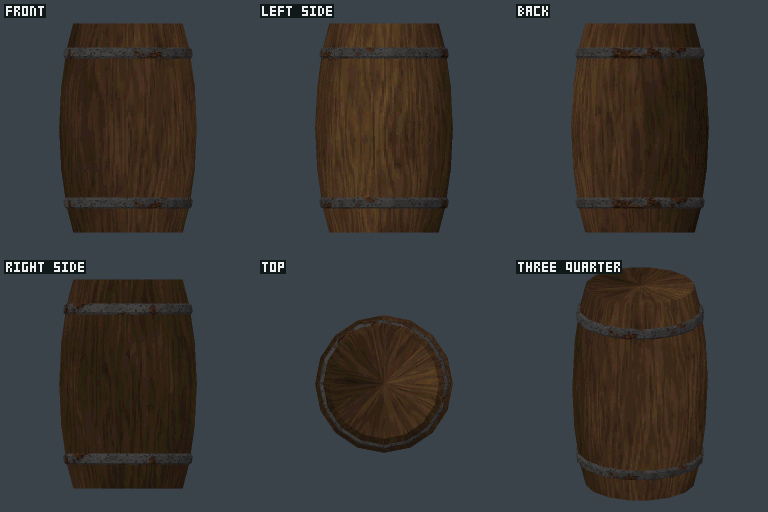
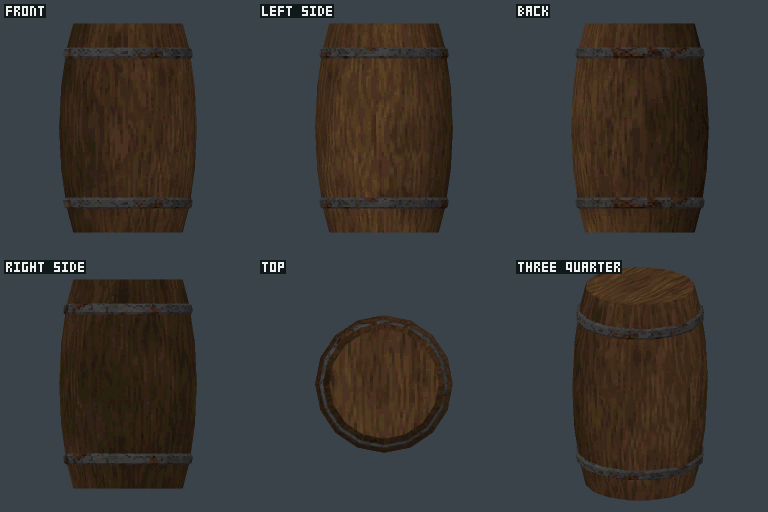
Turn a repeated part itself; name parts with crowded edges; paint closed ends as discs; the tavern table case

Changed region(s): [[0.4062, 0.6562, 0.5312, 0.8438], [0.75, 0.5, 0.8438, 0.5938], [0.5, 0.4375, 0.5312, 0.4688]]

diff --git a/examples/prompts/03-model-tavern-table/prompt.md b/examples/prompts/03-model-tavern-table/prompt.md
@@ -1,0 +1,52 @@
+# 03 A tavern table, set (model, repeated parts and things on things)
+
+## The prompt (118 words)
+
+> A round tavern table for my inn, as one prop. The top is a thick round slab of dark wood, about 48 units
+> across, standing about 30 units off the floor. It sits on a single thick central pedestal, turned like a
+> chair leg, and the pedestal has four curved feet that spread out in a cross so it doesn't tip. On the
+> table there's a pewter tankard with a handle on its side, and a short candle in a little brass holder
+> with its flame lit (the flame should glow). Put the tankard and the candle apart from each other, not
+> in the middle. Everything should be properly joined, nothing hovering above the table.
+
+## The rubric (written before the spec)
+
+| # | Item | Must | Score |
+| --- | --- | --- | --- |
+| 1 | Stands on the floor; the table top about 30 off the floor and about 48 across | yes | 2 |
+| 2 | A thick round top of dark wood | yes | 2 |
+| 3 | One turned central pedestal | yes | 2 |
+| 4 | Four curved feet spreading in a cross | yes | 2 |
+| 5 | A pewter tankard with a handle on its side, standing on the top | yes | 2 |
+| 6 | A short candle in a brass holder with a glowing flame, on the top, apart from the tankard | yes | 2 |
+| 7 | Nothing floating, no holes (the report) | yes | 2 |
+| 8 | Reads as dark wood, grey pewter, yellow brass | no | 2 |
+
+**Score: 16 of 16 (100%). Passes.**
+
+## How the prompt became the spec
+
+- The pedestal is a `turn` of nine rings that swell and narrow (turned like a chair leg), standing at the
+  origin. The top is a short `turn` with a rounded edge (rings 23 to 24 to 23.4), 48 across, attached on the
+  pedestal and sunk 0.5 into it: its upper face at z 30.5.
+- One foot is a `tube` that falls and thins as it goes out; `repeat` makes four of it round the centre,
+  starting at 45 degrees: a cross.
+- The tankard and the candle's holder are attached on the top's `top` anchor with an `offset` each, 10 and
+  9 units out on opposite sides. The handle is a `tube` whose `start` is a point of the tankard's surface
+  (`{ s: 0.82, angle: 0 }`) and whose path comes back into it. The flame is a `turn` coming to a point, in
+  the `flame` material (fullbright).
+- `size: { height: 37, length: 48 }`: the table with the candle on it.
+
+## Iterations
+
+1. `FAULT 2 edges are shared by three triangles or more`, and the feet stood in an X with one foot
+   unturned. Two findings in the kit: `repeat` with a `start` turned the copies and not the part itself
+   (fixed: the part is turned to `start` first), and the fault did not say which part (fixed: it names
+   them). The crowded edges were the four feet's ends, all starting at the one point in the pedestal's
+   middle.
+2. The feet start 1.2 off the middle, inside the pedestal still: clean. The table top's grain ran out from
+   the middle like spokes, since a closed end was painted as part of the strip; fixed in the kit (a
+   turned part's closed ends get a disc of the picture of their own), and the grain now runs across.
+3. Clean. The sheet (picture-1) shows the cross of feet, the turned pedestal and the round top; the close
+   look (picture-2) the pewter tankard with its handle and the candle burning in its brass dish, on
+   opposite sides of the top.

diff --git a/examples/prompts/01-model-barrel/prompt.md b/examples/prompts/01-model-barrel/prompt.md
@@ -36,5 +36,8 @@ the report. It passes when every must-have item scores 2 and the total is at lea
    6.7 and 33.3 to 35.5. The sheet (result/picture-1.png) shows the bulge, the two hoops and the lid's
    grain from above.
 
+2. Built again after the kit painted a turned part's closed ends as discs of their own (found on case
+   03): the lids' grain now runs across them. Still clean.
+
 The rubric for this first case was written alongside its first build; for every later case it was written
 before the spec.
